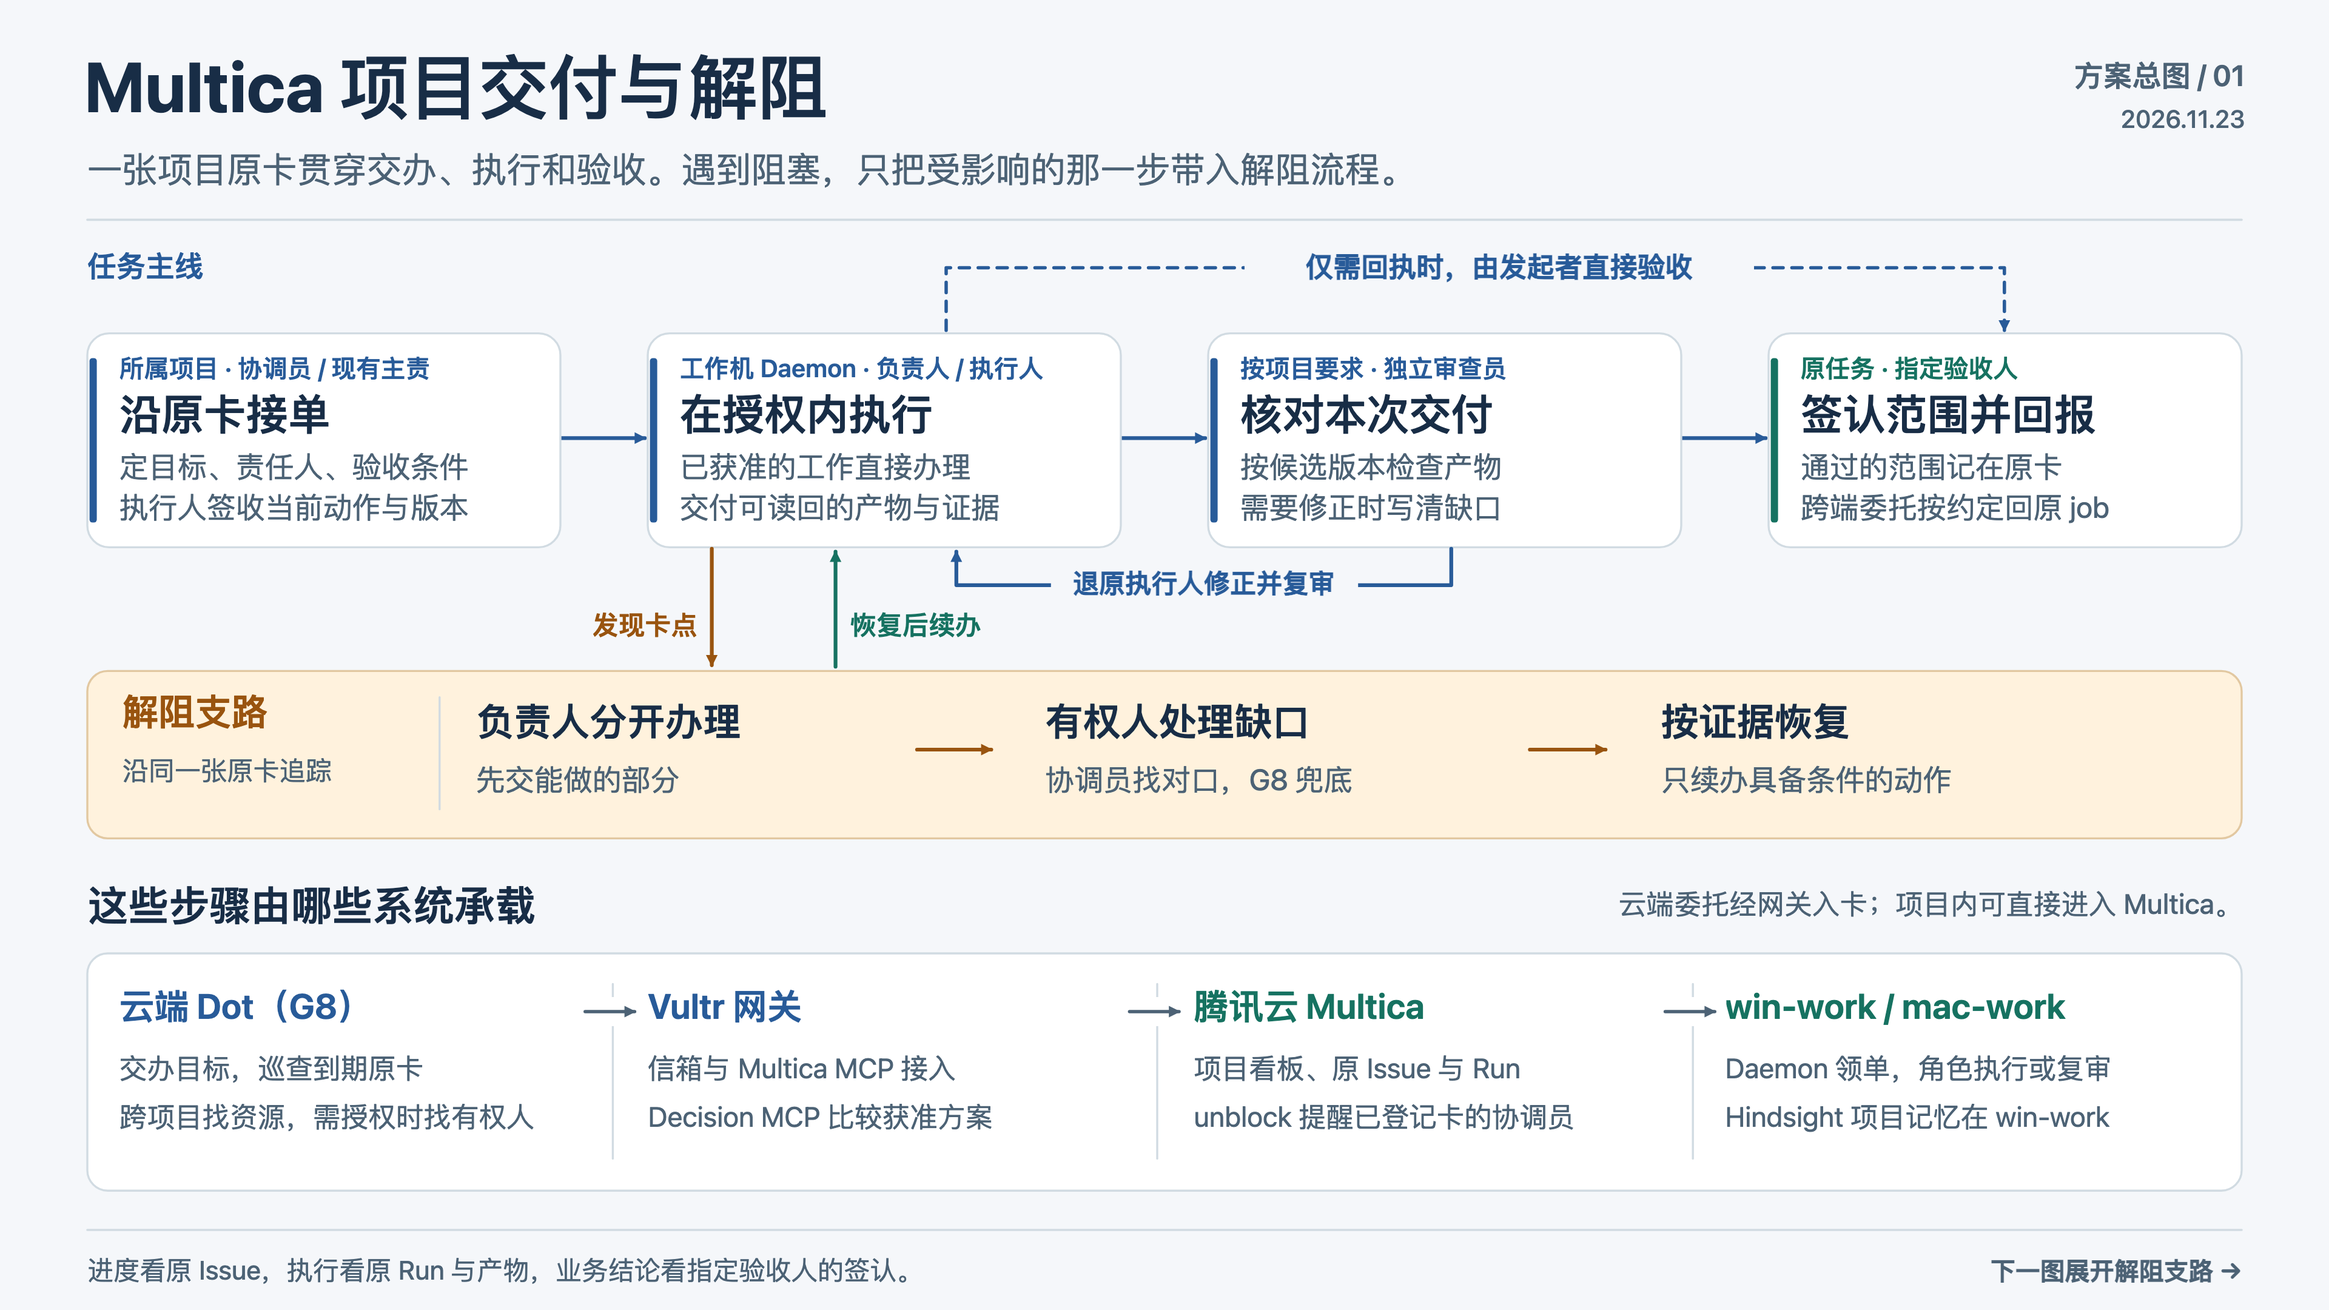
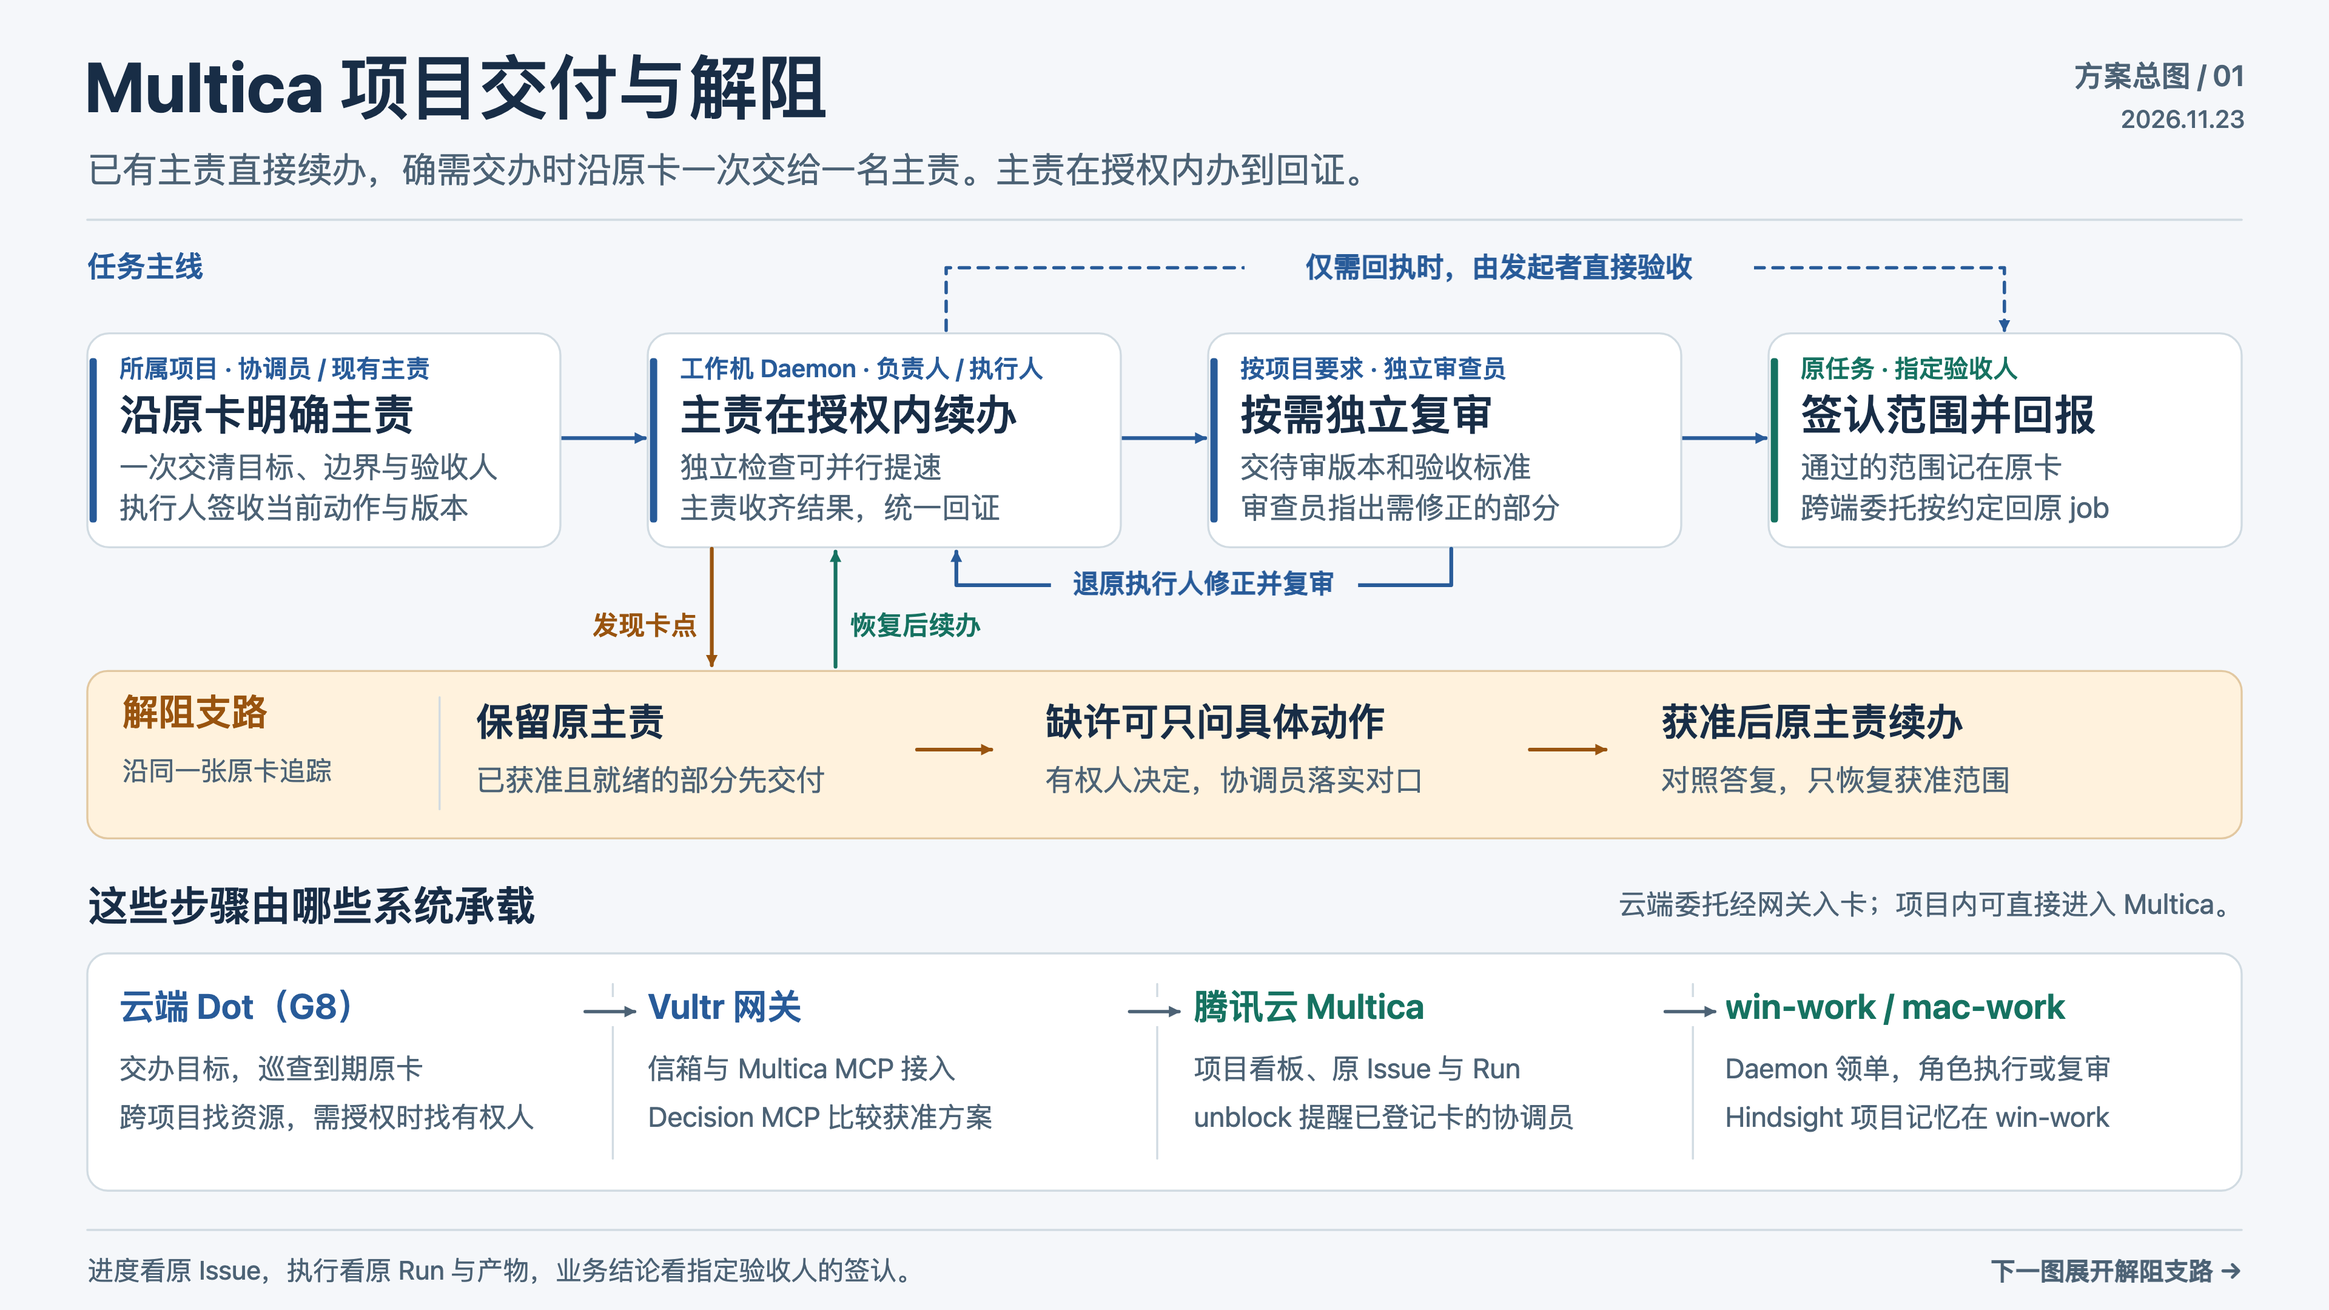
Clarify project delivery and unblock guidance

diff --git a/skills/workspace-coordination/SKILL.md b/skills/workspace-coordination/SKILL.md
@@ -2,7 +2,7 @@
 name: workspace-coordination
 description: G8 向 Multica 协调员交办、沿原 Issue 解阻、按需决策并跟到验收。适用于现有及新增工作区。
 metadata:
-  version: "1.13.0"
+  version: "1.13.1"
 ---
 
 # G8 与工作区协调员职责和协作规范
@@ -24,7 +24,9 @@ G8 已认证账号按公子确认的范围拥有 Task Mailbox 现有及后续项
 
 ### 一条能执行的指令
 
-沿原 Issue、原线程及原委托写清：具名主责、动作与目标版本、已知事实和在途、授权范围及停止条件、预期产物、验收人、回程与复查点。原负责人能处理就地办理；需要别人承接时由唯一获准派发者交办一次。普通进展留原卡；风险、目标或接手人实质变化、到复查点或已有交付时沿约定回程汇报。
+**已有主责直接续办，确需交办时沿原卡一次交给一名主责。** 首次交办写清交付目标、已知事实与在途工作、授权边界、验收人和回报时间。主责在授权内查因、处置、复验并回证。独立工作可并行提速时，由主责分工并收齐结果。缺许可，只请有权人决定具体动作。需独立复审，只交待审版本和标准。到期先核原请求、答复和在途。确需换人，只交剩余工作，原主责跟到新主责签收。
+
+由唯一获准派发者在原线程写明目标版本、预期产物和停止条件，约定回程及复查点。普通进展留原卡，交付、到期或风险、目标、接手人有实质变化时沿约定回报。
 
 ### G8 经信箱交给工作区协调员
 
@@ -34,19 +36,19 @@ G8 已认证账号按公子确认的范围拥有 Task Mailbox 现有及后续项
 
 | 当前情况 | 原卡怎么处理 |
 |---|---|
-| 已有主责、方案可执行 | 同一授权内连续诊断、处置、复验和回证。普通任务可在一条原生回件中分述谁接了本次动作、做了什么、实际结果和证据。只作记录时用静默备注。 |
-| 确需换主责 | 核旧在途、已完成部分和剩余动作，原方跟到新主责在原线程对当前目标、版本及检查点或原请求签收。执行人待定时由协调员具名落实。结果未知沿原 ID 对账；只有确认未收到、无同一动作在途且已获准时才提醒一次。 |
+| 已有主责、方案可执行 | 直接推进。普通任务可用一条原生回件分述本次接手、实际结果和证据。只作记录时用静默备注。 |
+| 确需换主责 | 新主责在原线程对当前目标、版本及检查点或原请求签收。人选待定由协调员落实。送达未知沿原 ID 对账，确认未收到、无同一动作在途且获准时才提醒一次。 |
 | 确需另一有权人判断，或项目要求单独跟踪该决定 | 保存现任执行者、候选及目标、验收条件和回程。有「待决策」阶段时读生效配置、切换一次；无该阶段沿原卡交有权人。主责能决定且无单独跟踪要求时留在当前 Run。移交读回 Issue，仅在预期派发时核实际 Run；排队、未知按原号跟进。 |
-| 需独立复审或返工 | 指明候选 Run 与产物，按原项目进入 `in_review`、返工或到达返工上限的处置。转审只改状态，退回执行时明确实际执行者。仅修正受影响部分。 |
+| 需独立复审或返工 | 由独立审查员按原项目要求核候选 Run、产物版本和验收标准。转入 `in_review` 时只改状态。需返工时带具体缺口退原执行人，修正受影响部分再复审；达到返工上限按项目约定处置。 |
 | 发起者验收，工作约定只回原卡或原信箱 | 项目设有「回执交付」时按此分支交办，发起者核结果并处理终态。回程故障时在原卡留获准披露的产物引用或证据、原标识、具名跟进人和恢复条件，执行 Run 可结束。回执本身是交付物时该项仍待交付；恢复后先对账，确认缺失才补送。 |
 
 ## 原卡解阻闭环
 
 ### 阻塞补证与续办
 
-- **先落实主责。** 沿原卡、原线程和原委托核项目任命、具名接手、已有结果及在途动作。每个独立阻塞保留一名主责，已有主责能办就地续办。无人接手时，唯一获准派发者默认交现任项目负责人一次。换任或任命不清时，由协调员落实并跟到本次动作签收。看板状态或指派字段单独变化时先对账。
+- **先查谁已接手。** 沿原卡、原线程和原委托核任命、当前动作的签收、已交结果和在途。无人接手时默认交现任项目负责人，任命不清由协调员落实。看板状态或指派字段单独变化时先对账。
 - **查因并选择下一步。** 区分已证原因、待验证假设和待授权事项。能在当前会话核清的直接办，身份、环境或版本依赖实际会话时在该会话核查。新增前置条件应有原授权、验收要求或实际系统约束作依据，并说明「缺什么、影响哪一步、查到后做什么、查不到由谁决定」。已获准的明确动作直接做，存在实质取舍才按下文比较路线。两种检查结果都不改变处置且原约定未要求时，直接续办。
-- **并行推进获准支路。** 工作可独立验证且并行能缩短等待时，主责可在同一父 Run 内委派原生子智能体，写清各项输入、权限边界和回传要求。存在先后依赖或共用写入目标时串行，并保留唯一写入者。父角色按子名或调用 ID 挨项核对原始结果及父侧收件，再汇总回原线程。超时只沿原调用追缺项，已回的独立支路可以继续。缺许可仅暂停受影响动作，整卡确无可行动作时才建议标阻塞。
+- **并行推进获准支路。** 同一主责可在父 Run 内并行委派无先后依赖、能分别验证且并行有收益的工作，约定输入、权限和回件。按子名或调用 ID 核对各项原始结果与父侧收件，统一回原卡；超时沿原调用追缺项。有依赖的步骤串行，共用写入目标只留一名写入者。超出授权时只将具体对象、版本、拟做动作和所需许可交有权人决定；答复后由原主责核对并续办。其余获准支路照常交付，整卡确无可行动作时才建议标阻塞。
 - **到期对账并处置。** 沿原请求与检查点读答复、在途和已交成果。有增量就调整判断并续办剩余项，能恢复就走验收。仍缺证据或许可时，留具名补证或决策人、受阻动作和恢复触发条件。协调员落实跨人缺口，找不到有权人、已到最迟决定时间或同因反复且无本地动作时，沿原委托把最小未决事项交 G8，跟到接手。原委托指定 G8 直接核收时沿用该回程。G8 落实对口，或取得继续、调整范围、暂停或取消的有权处置。相同事实和权限下复查原在途，每轮照常汇报，避免重复派发或开 Run。
 - **按范围恢复和验收。** 主责凭真实 Run、产物及当时有效授权报告恢复，指定验收人按原约定签认。已登记自动核收的事项按协议留证。首件通过就记录首件，失败只退受影响部分。目标、版本或实质动作改变时核新检查点及接手依据，保留历史回执。
 

diff --git a/docs/share-doc/README.md b/docs/share-doc/README.md
@@ -1,27 +1,27 @@
 # Multica 项目交付与解阻方案
 
-一项工作从交办开始，直到指定验收人确认交付，都沿所属项目的一张 Multica 原卡办理。执行途中有一步走不通，项目负责人继续做已经获准的部分，把剩下的缺口交给能决定的人。答复回来，仍由原主责接着做。**交付和解阻共用负责人、原卡和验收条件。**
+**已有主责直接续办，确需交办时沿原卡一次交给一名主责。** 首次交办写清交付目标、已知事实与在途工作、授权边界、验收人和回报时间。主责在授权内查因、处置、复验并回证。独立工作可并行提速时，由主责分工并收齐结果。缺许可，只请有权人决定具体动作。需独立复审，只交待审版本和标准。到期先核原请求、答复和在途。确需换人，只交剩余工作，原主责跟到新主责签收。
 
-举个实测例子。凡人项目负责人接到两件事：核算一份模拟清单，以及把它导出。清单可以直接算，导出还缺许可。负责人先交清单，再问本次有权决定的 Mike 是否批准该版本导出。Mike 明确暂停导出，并留下收到许可后由谁续办。发起者随后验收了这次流程演练，清单成果保留，模拟导出仍处于暂停。下文按 2026-11-23 的规范与已记录回执整理。[CLOU-59 验收记录](../harness-role-guide.md#项目负责人怎么配)
+例如，CLOU-59 的清单核算已获准，导出还缺许可。凡人项目负责人直接交付清单，只问 Mike 是否批准该版本导出。Mike 决定暂停导出，后续许可到位仍由凡人负责人接续。发起者验收了这次流程演练。[2026-11-23 隔离验收记录](../harness-role-guide.md#项目负责人怎么配)
 
 ## 一项任务怎样走完
 
-![四步完成交付：沿原卡接手、执行、按需独立复审、指定人验收。受阻动作进入解阻支路，条件满足后回到原步骤。下方列出支撑各步的系统。](multica-delivery-solution.png)
+![已有主责直接续办，确需交办时沿原卡一次交给一人。独立核验可并行，缺许可只问有权人，需独立复审时交候选版本，最后由指定人验收。](multica-delivery-solution.png)
 
 总图可直接用于转发或投屏。[高清 PNG](multica-delivery-solution.png) · [可编辑 SVG](multica-delivery-solution.svg)
 
 | 时点 | 谁做什么 | 在哪里确认 |
 |---|---|---|
-| 交办 | 发起者明确目标、范围和验收人。项目内由已有主责承办。G8 经信箱跨端委托时，由现任工作区协调员将原委托关联到唯一原卡，落实具名执行人。 | 在原线程查执行人对**本次动作、目标和版本**的接手回件。信箱落盘、Run 启动各有自己的记录。 |
-| 执行 | 负责人组织实施和集成，原执行人在授权内直接做到可验证。必要时可在一个父 Run 内并行处理独立支路，由父角色收齐结果；共用写入目标时保留一名写入者。 | 回原卡交付产物、版本和验证结果。Run 结束后仍须检查实际产物。 |
-| 复审或返工 | 需要独立复审时，按所属项目生效的工作流交审查员。未通过就带具体缺口退给原执行人，修正后复审；返工达到项目上限时交有权人处置。约定只回执的单，走原卡或原信箱，由发起者验收。 | 查审查意见对应的候选版本、返工产物与复审结论。 |
+| 交办 | 围绕一个可验收结果，写清产物版本和停止条件。G8 经信箱跨端委托时，协调员将原委托关联到唯一原卡。 | 原线程有执行人对**本次动作、目标和版本**的接手回件。信箱落盘、Run 启动各有自己的记录。 |
+| 执行与并行 | 比如核对输入和校验一份已生成的副本，可由同一主责在父 Run 内并行分工，逐项收齐结果。须用上一步产物的步骤依次执行，共用写入目标只留一名写入者。 | 原主责回原卡交付产物、版本和验证结果。 |
+| 授权或独立复审 | 原授权未覆盖的动作，如向新目标导出，由有权人单独决定对象、版本和范围。项目要求独立复审时，将候选产物、版本和标准交审查员，发现缺口退原执行人修正后复审。 | 许可回件只覆盖批准的动作；复审意见关联被审版本。达到返工上限时按项目约定处置。 |
 | 验收与回报 | 指定验收人按原条件签认具体范围。普通任务回原卡；约定回信箱的，回同一 `job_id`，按版本与摘要读回。 | 分别记录业务签认和回程送达。回程故障时保留原件，恢复后只补经核实缺少的回执。 |
 
-看板状态及自动处理人以各项目的生效配置为准。“待接手”描述当前动作的证据情况，各项目可以在原线程表达。普通事项可以用一条回件写清接手、实际结果和证据。[协作规范](../../skills/workspace-coordination/SKILL.md) · [工作流与跨端回报](../workflow-reporting.md)
+看板状态及自动处理人以项目配置为准。约定只交回执时由发起者直接验收。[协作规范](../../skills/workspace-coordination/SKILL.md) · [工作流与跨端回报](../workflow-reporting.md)
 
 ## 有一步走不通，怎样继续
 
-![解阻详图：原主责把可执行和待许可的工作分开。许可先到就直接续办，到期仍缺才请协调员落实对口、G8 兜底。指定人按范围验收。](multica-issue-unblock-loop.png)
+![原卡解阻由一名主责跟进。独立且已获准的检查可并行，待许可动作交有权人决定。获准后原主责续办，按项目要求独立复审和验收。](multica-issue-unblock-loop.png)
 
 需要说明“下一步谁来做”时，可单独使用这张图。[高清 PNG](multica-issue-unblock-loop.png) · [可编辑 SVG](multica-issue-unblock-loop.svg)
 
@@ -32,7 +32,7 @@
 | 有回报，验收还缺证据 | 优先补原产物或原回执。发现产物确有问题，才返工受影响的部分；独立支路照常交付。首件通过只签认首件。 |
 | 找不到有权人、已到最迟决定时间，或同因反复且本地无可办事项 | 协调员落实跨人资源。仍无解时，G8 沿原委托接下最小未决事项，取得继续、调整范围、暂停或取消的有权决定。只有需要公子本人决策或授权的事项才上报公子。 |
 
-一条有效的补证请求可以直接写成：“清单已交。导出 v1 还缺你的许可，请决定是否允许发往指定目标。收到对应版本的许可后，由我恢复导出并回证。”同一检查点到期时，先核这条请求、答复和实际在途；重新派发或另开 Run 都需要新的事实依据。只有整卡确无可行动作时，才建议将整卡标记为阻塞。[解阻办理与复核](../project-unblock-loop.md)
+同一检查点到期，先核原请求、答复和在途；已有业务动作只补缺少的证据。整卡确无可行动作时才建议标记阻塞。[解阻办理与复核](../project-unblock-loop.md)
 
 ## 架构怎样支撑这条原卡
 
